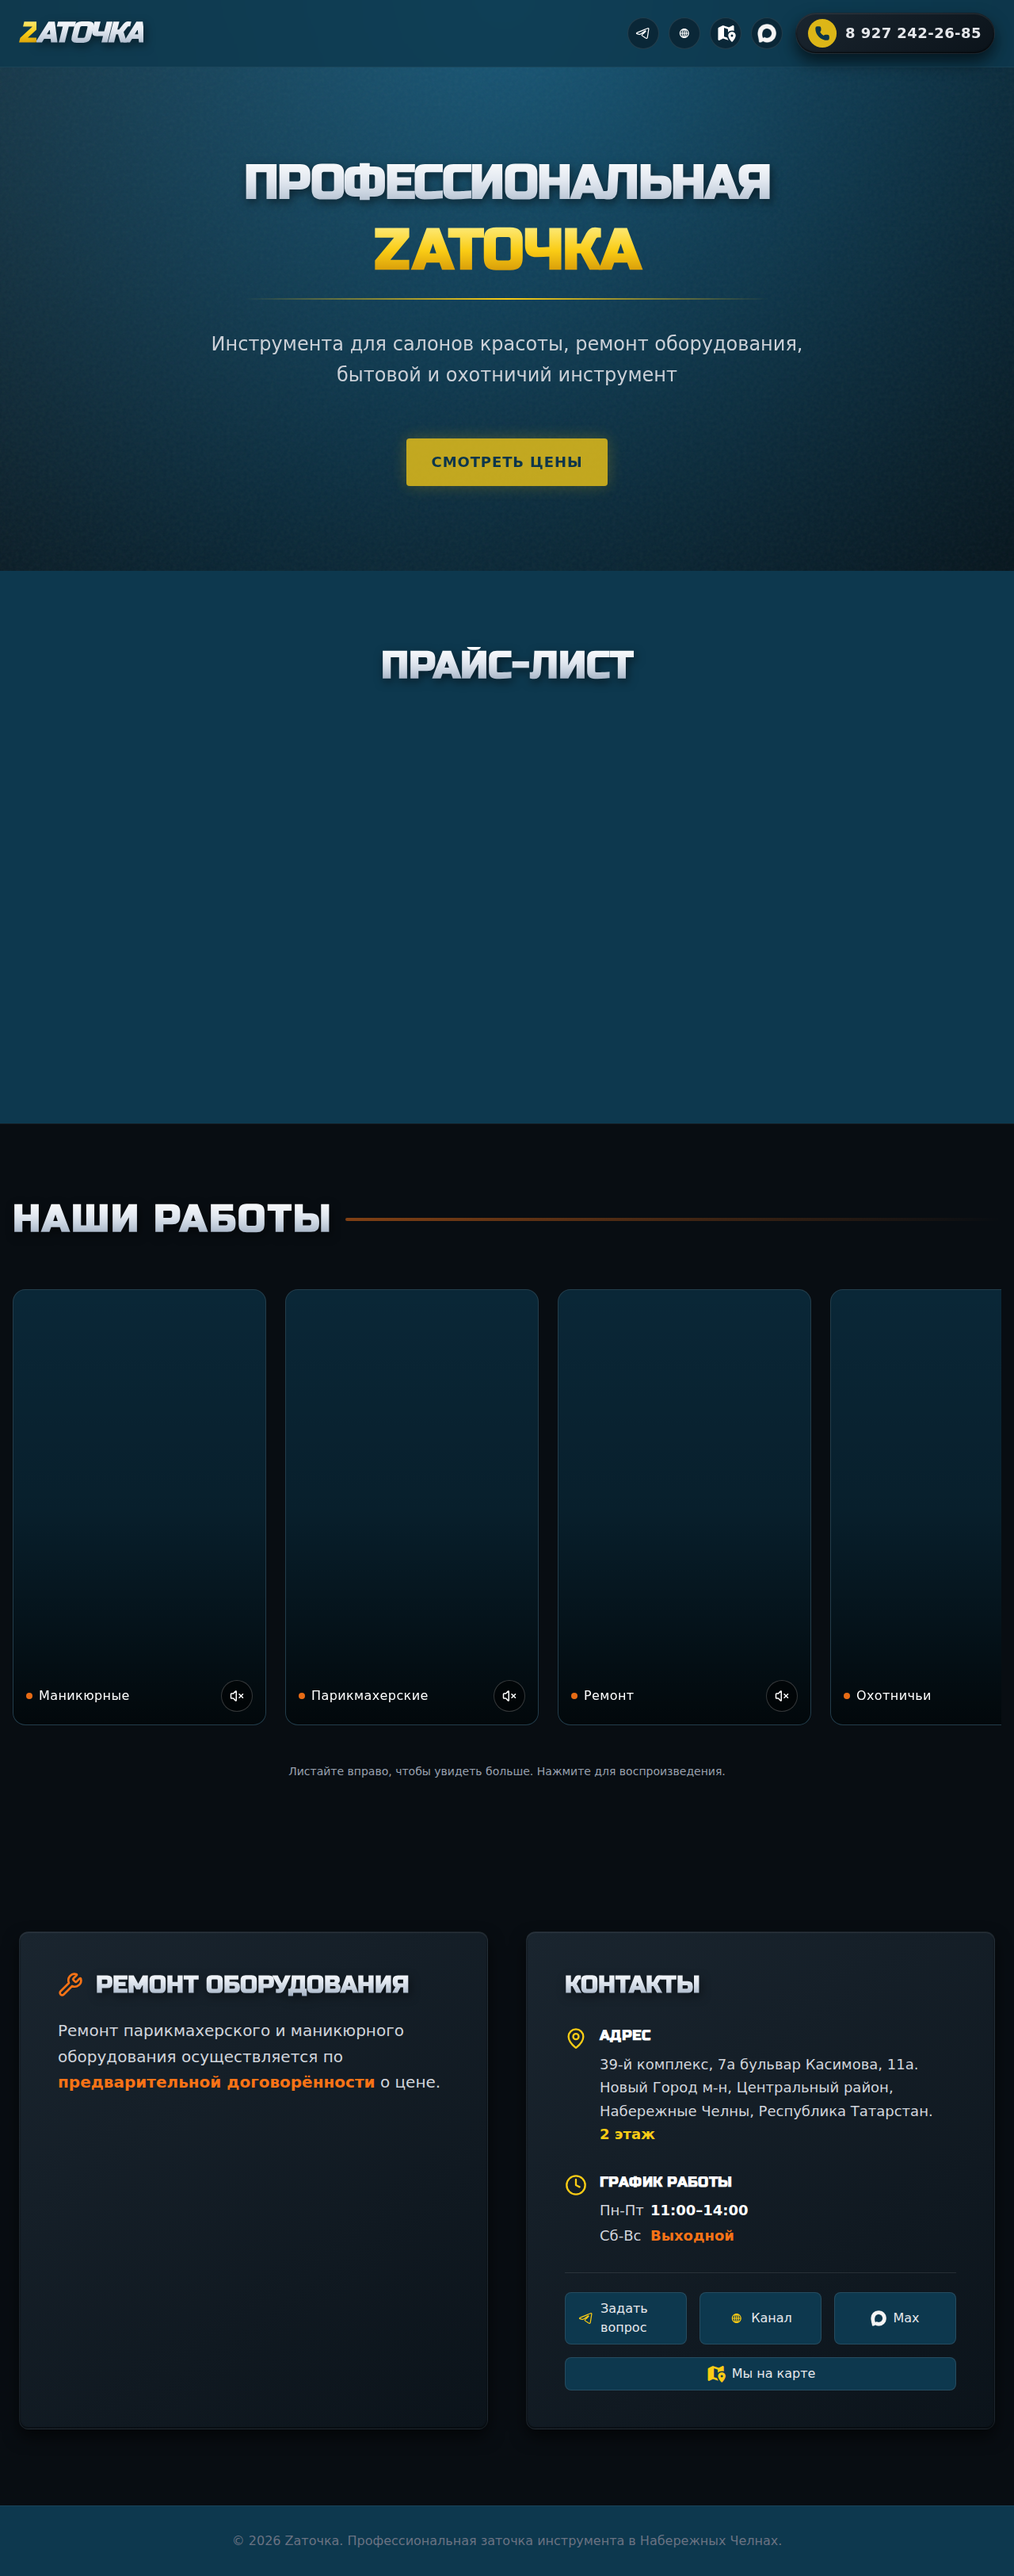
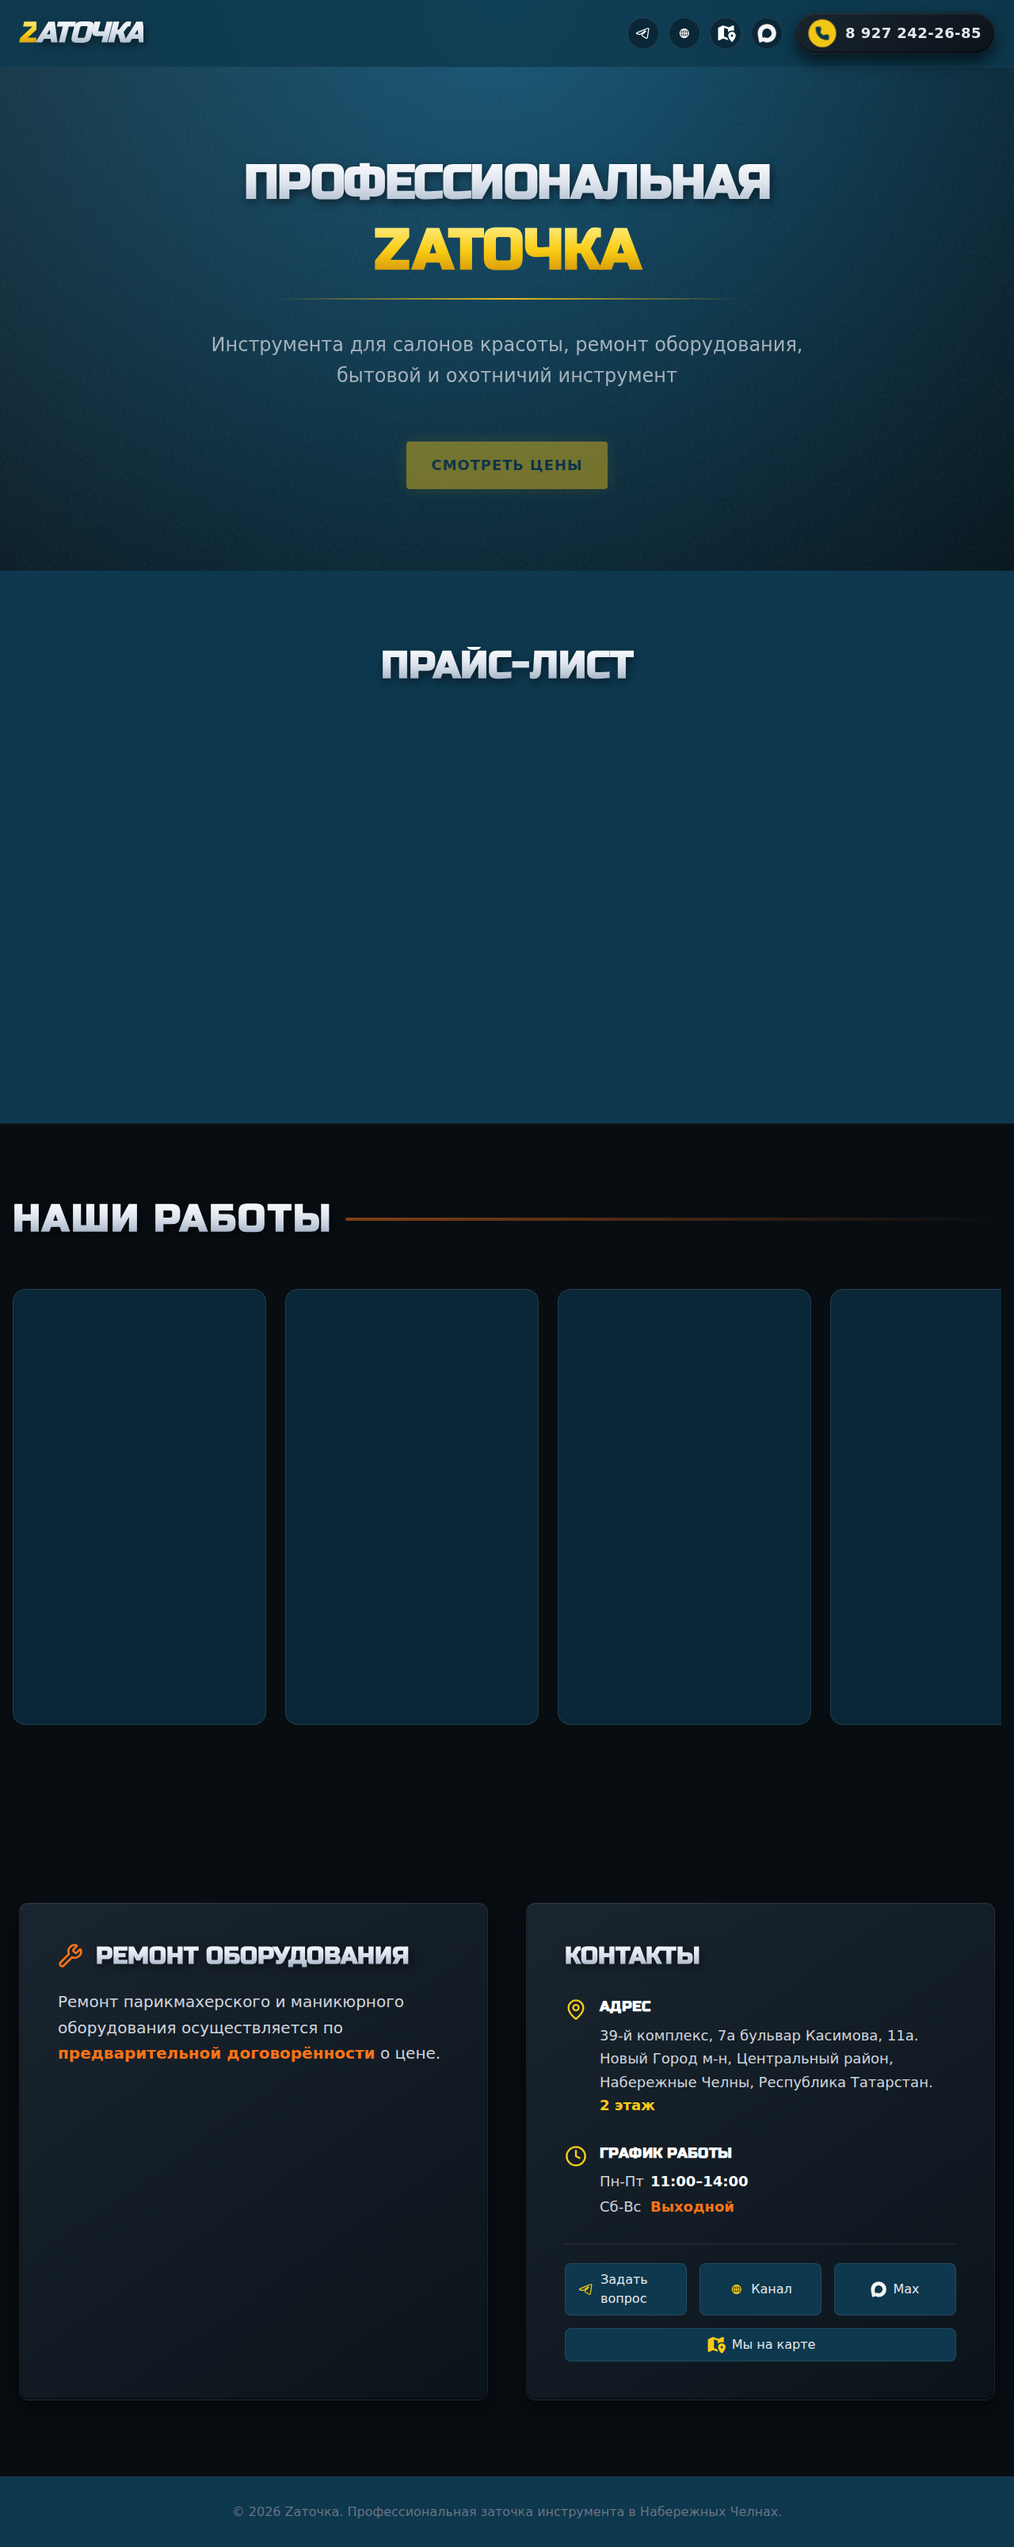
feat: final visual polish and optimization
* Removed texts from videos in VideoGallery
* Standardized all SVG icon dimensions
* Updated Max link URL
* Corrected logo text overlap

diff --git a/src/components/VideoGallery.jsx b/src/components/VideoGallery.jsx
@@ -1,10 +1,8 @@
 import React, { useRef, useState, memo } from 'react';
-import { Volume2, VolumeX, Play, Pause } from 'lucide-react';
 
-const VideoCard = memo(({ src, title }) => {
+const VideoCard = memo(({ src }) => {
   const videoRef = useRef(null);
   const [isPlaying, setIsPlaying] = useState(false);
-  const [isMuted, setIsMuted] = useState(true);
 
   const togglePlay = () => {
     if (videoRef.current) {
@@ -14,14 +12,6 @@ const VideoCard = memo(({ src, title }) => {
         videoRef.current.play();
       }
       setIsPlaying(!isPlaying);
-    }
-  };
-
-  const toggleMute = (e) => {
-    e.stopPropagation();
-    if (videoRef.current) {
-      videoRef.current.muted = !isMuted;
-      setIsMuted(!isMuted);
     }
   };
 
@@ -35,38 +25,10 @@ const VideoCard = memo(({ src, title }) => {
         src={src}
         className="w-full h-full object-cover"
         loop
-        muted={isMuted}
+        muted={false}
         playsInline
         preload="metadata"
       />
-
-      {/* Overlay gradient */}
-      <div className="absolute inset-0 bg-gradient-to-t from-black/80 via-black/20 to-transparent pointer-events-none" />
-
-      {/* Controls Overlay */}
-      <div className="absolute inset-0 flex items-center justify-center opacity-0 group-hover:opacity-100 transition-opacity duration-300">
-        <div className="w-16 h-16 rounded-full bg-black/50 backdrop-blur-sm flex items-center justify-center border border-white/20">
-          {isPlaying ? (
-            <Pause className="w-8 h-8 text-white ml-1" />
-          ) : (
-            <Play className="w-8 h-8 text-white ml-1" />
-          )}
-        </div>
-      </div>
-
-      {/* Bottom info & mute button */}
-      <div className="absolute bottom-0 left-0 right-0 p-4 flex items-center justify-between z-10">
-        <div className="text-white font-medium text-sm md:text-base tracking-wide flex items-center gap-2">
-          <span className="w-2 h-2 rounded-full bg-brand-orange animate-pulse"></span>
-          {title}
-        </div>
-        <button
-          onClick={toggleMute}
-          className="w-10 h-10 rounded-full bg-black/50 backdrop-blur-sm flex items-center justify-center border border-white/20 hover:border-brand-yellow hover:text-brand-yellow transition-colors text-white"
-        >
-          {isMuted ? <VolumeX size={18} /> : <Volume2 size={18} />}
-        </button>
-      </div>
     </div>
   );
 });
@@ -74,15 +36,14 @@ const VideoCard = memo(({ src, title }) => {
 VideoCard.displayName = 'VideoCard';
 
 const VideoGallery = () => {
-  // Use relative pathing that works correctly with Vite base path for GitHub Pages
   const basePath = import.meta.env.BASE_URL || '/';
 
   const videos = [
-    { src: `${basePath}videos/video1.mp4`, title: 'Маникюрные' },
-    { src: `${basePath}videos/video2.mp4`, title: 'Парикмахерские' },
-    { src: `${basePath}videos/video3.mp4`, title: 'Ремонт' },
-    { src: `${basePath}videos/video4.mp4`, title: 'Охотничьи' },
-    { src: `${basePath}videos/video5.mp4`, title: 'Бытовые' },
+    { src: `${basePath}videos/video1.mp4` },
+    { src: `${basePath}videos/video2.mp4` },
+    { src: `${basePath}videos/video3.mp4` },
+    { src: `${basePath}videos/video4.mp4` },
+    { src: `${basePath}videos/video5.mp4` },
   ];
 
   return (
@@ -98,12 +59,9 @@ const VideoGallery = () => {
         {/* Horizontal scroll container */}
         <div className="flex overflow-x-auto gap-6 pb-8 snap-x snap-mandatory hide-scrollbar">
           {videos.map((vid, idx) => (
-            <VideoCard key={idx} src={vid.src} title={vid.title} />
+            <VideoCard key={idx} src={vid.src} />
           ))}
         </div>
-        <p className="text-center text-gray-400 text-sm mt-4">
-          Листайте вправо, чтобы увидеть больше. Нажмите для воспроизведения.
-        </p>
       </div>
 
       <style dangerouslySetInnerHTML={{__html: `

diff --git a/src/components/InfoSection.jsx b/src/components/InfoSection.jsx
@@ -64,7 +64,7 @@ const InfoSection = () => {
                 className="flex items-center gap-2 bg-dark-bg px-4 py-2 rounded-lg border border-white/10 hover:border-brand-yellow transition-colors group flex-1 justify-center min-w-[140px]"
               >
                 <div className="text-brand-yellow group-hover:scale-110 transition-transform">
-                  <TelegramAccountIcon className="w-5 h-5 text-current" />
+                  <TelegramAccountIcon className="w-5 h-5 text-current shrink-0" />
                 </div>
                 <span>Задать вопрос</span>
               </a>
@@ -76,19 +76,19 @@ const InfoSection = () => {
                 className="flex items-center gap-2 bg-dark-bg px-4 py-2 rounded-lg border border-white/10 hover:border-brand-yellow transition-colors group flex-1 justify-center min-w-[140px]"
               >
                 <div className="text-brand-yellow group-hover:scale-110 transition-transform">
-                  <TelegramChannelIcon className="w-5 h-5 text-current" />
+                  <TelegramChannelIcon className="w-5 h-5 text-current shrink-0" />
                 </div>
                 <span>Канал</span>
               </a>
               <a
-                href="https://max.ru/+79272422685"
+                href="https://max.ru/u/f9LHodD0cOI6eF2fqc0EAxuzP-8Y0REIDecsMGmjJj0oPTIQYLWaEU1smpE"
                 target="_blank"
                 title="Max"
                 rel="noopener noreferrer"
                 className="flex items-center gap-2 bg-dark-bg px-4 py-2 rounded-lg border border-white/10 hover:border-brand-yellow transition-colors group flex-1 justify-center min-w-[140px]"
               >
                 <div className="text-brand-yellow group-hover:scale-110 transition-transform">
-                  <MaxIcon className="w-5 h-5 text-current" />
+                  <MaxIcon className="w-5 h-5 text-current shrink-0" />
                 </div>
                 <span>Max</span>
               </a>

diff --git a/src/components/Header.jsx b/src/components/Header.jsx
@@ -63,7 +63,7 @@ const Header = () => {
                <i className="fa-solid fa-map-location-dot text-xl"></i>
             </motion.a>
             <motion.a
-              href="https://max.ru/+79272422685"
+              href="https://max.ru/u/f9LHodD0cOI6eF2fqc0EAxuzP-8Y0REIDecsMGmjJj0oPTIQYLWaEU1smpE"
               target="_blank"
               title="Max"
               rel="noopener noreferrer"
